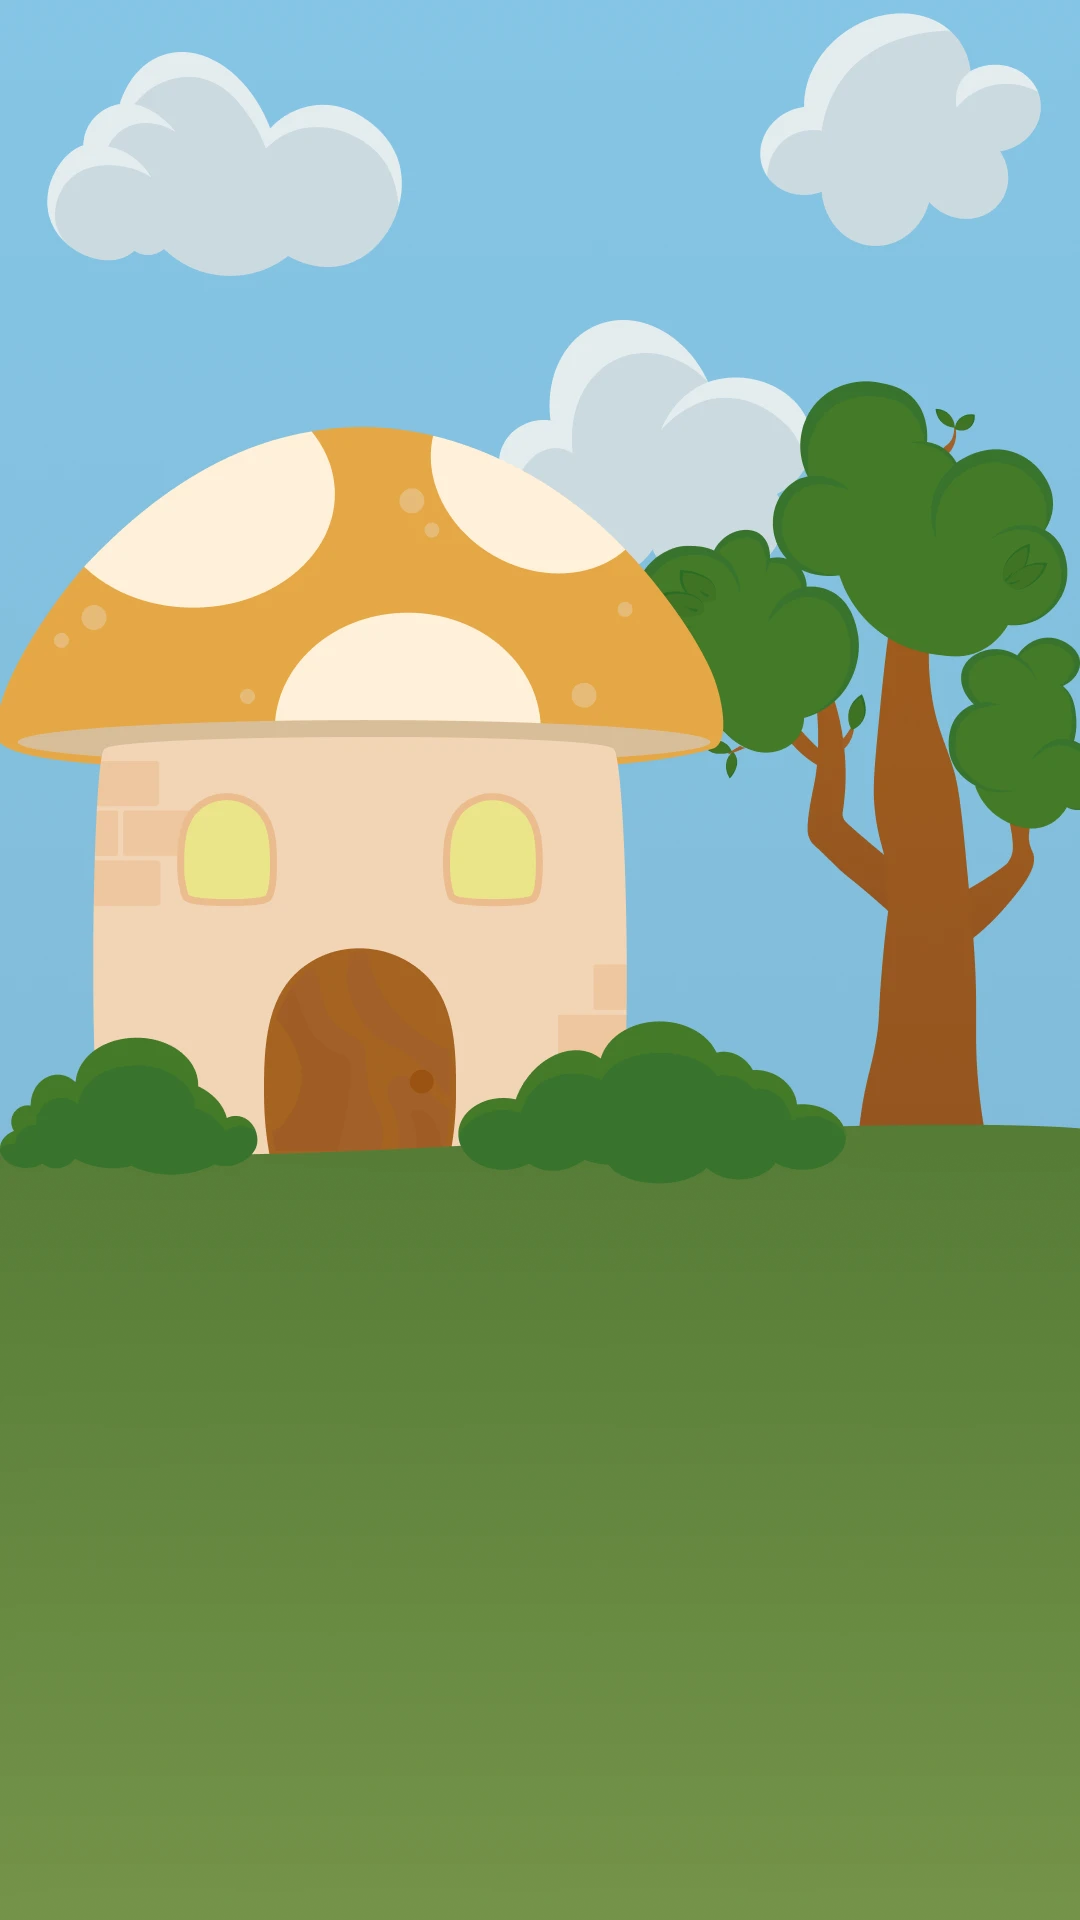
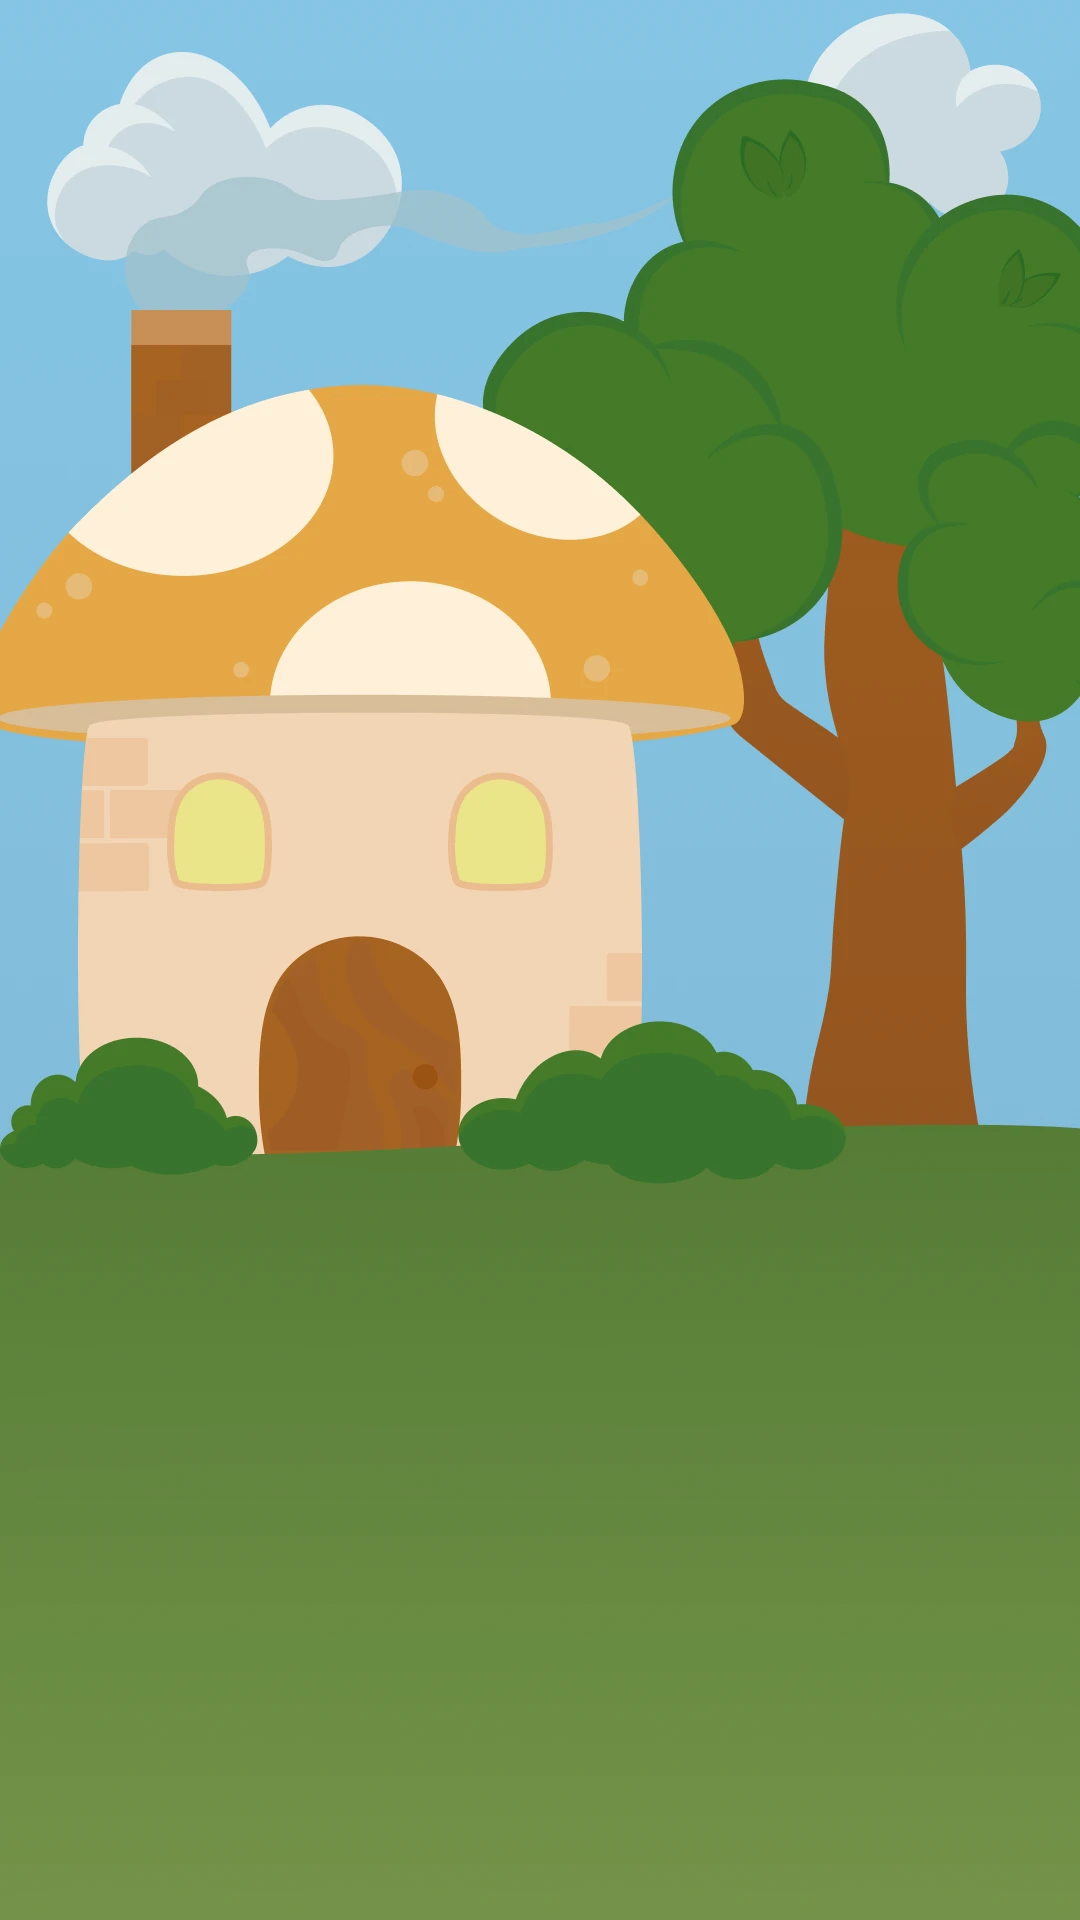
feat:FM-502 FM-559 FM-567 Phase 3 Monster Implementation Background changes for phase 3 and Evolution star count changes

diff --git a/src/gameStateService/gameStateService.ts b/src/gameStateService/gameStateService.ts
@@ -54,7 +54,7 @@ export class GameStateService extends PubSub {
         selectedLevelNumber: number
 
     };
-    public feedbackTexts: null |  {
+    public feedbackTexts: null | {
         amazing: string,
         fantastic: string,
         great: string
@@ -177,28 +177,28 @@ export class GameStateService extends PubSub {
             //Return determined game types and what level it will first appear.
             return gameTypes;
         }
-         return {}
+        return {}
     }
 
     private checkClearedLevels(levelNumber: number) {
-       const clearedLevels = GameScore.getAllGameLevelInfo();
-       let hasCleardLevel = false;
-       /*We don't need the whole object in Cleard level data, we just need to check if the
-        levelNumber is in the list as it means it that level has been cleared.
-       */
-       clearedLevels.every((cleardLevels: {
-           levelName: string,
-           levelNumber: number,
-           score: number,
-           starCount: number
-       }) => {
-        if (cleardLevels.levelNumber === levelNumber) {
-            hasCleardLevel = true;
-            return false; //Return false to break every loop.
-        }
-           // Return true or else, `every()` will stop.
-        return true;
-       });
+        const clearedLevels = GameScore.getAllGameLevelInfo();
+        let hasCleardLevel = false;
+        /*We don't need the whole object in Cleard level data, we just need to check if the
+         levelNumber is in the list as it means it that level has been cleared.
+        */
+        clearedLevels.every((cleardLevels: {
+            levelName: string,
+            levelNumber: number,
+            score: number,
+            starCount: number
+        }) => {
+            if (cleardLevels.levelNumber === levelNumber) {
+                hasCleardLevel = true;
+                return false; //Return false to break every loop.
+            }
+            // Return true or else, `every()` will stop.
+            return true;
+        });
 
         return hasCleardLevel;
     }
@@ -207,7 +207,7 @@ export class GameStateService extends PubSub {
      * Flag that the current tutorial has been cleared.
     */
     public setClearedTutorial(gameTypeName: string) {
-        if(this.gameTypesFirstInstanceList[gameTypeName]) {
+        if (this.gameTypesFirstInstanceList[gameTypeName]) {
             this.gameTypesFirstInstanceList[gameTypeName].isCleared = true;
         }
     }
@@ -222,11 +222,11 @@ export class GameStateService extends PubSub {
             : "";
 
         let shouldHaveTutorial = false;
-        let isTutorialCleared : boolean = false;
-        const selectedLevelNumber:string | number = this.gamePlayData.selectedLevelNumber;
+        let isTutorialCleared: boolean = false;
+        const selectedLevelNumber: string | number = this.gamePlayData.selectedLevelNumber;
         const levelNumber = typeof selectedLevelNumber === 'string' ? parseInt(selectedLevelNumber) : selectedLevelNumber;
         //Very small array to iterate.
-        Object.values(this.gameTypesFirstInstanceList).forEach((listedLevelNumber: { levelNumber: number, isCleared: boolean}) => {
+        Object.values(this.gameTypesFirstInstanceList).forEach((listedLevelNumber: { levelNumber: number, isCleared: boolean }) => {
             if (listedLevelNumber?.levelNumber === levelNumber) {
                 isTutorialCleared = listedLevelNumber?.isCleared;
                 shouldHaveTutorial = true;
@@ -250,8 +250,8 @@ export class GameStateService extends PubSub {
         };
     }
 
-    levelEndSceneData({levelEndData, data}) {
-        this.levelEndData = {...levelEndData};
+    levelEndSceneData({ levelEndData, data }) {
+        this.levelEndData = { ...levelEndData };
         this.data = data;
         this.isLastLevel = levelEndData.currentLevel === data.levels[data.levels.length - 1].levelMeta.levelNumber;
     }
@@ -273,12 +273,14 @@ export class GameStateService extends PubSub {
     public checkMonsterPhaseUpdation(): number {
         const totalStarCount = this.getTotalStars();
         switch (true) {
-          case totalStarCount >= 38:
-            return 2; // Phase 4
-          case totalStarCount >= 8:
-            return 1; // Phase 2
-          default:
-            return 0; // Phase 1 (default)
+            case totalStarCount >= 38:
+                return 3; // Phase 4
+            case totalStarCount >= 23:
+                return 2; // Phase 3
+            case totalStarCount >= 8:
+                return 1; // Phase 2
+            default:
+                return 0; // Phase 1 (default)
         }
     }
 

diff --git a/src/constants/index.ts b/src/constants/index.ts
@@ -154,9 +154,10 @@ export const WINTER_BG_GROUP_IMGS = {
 
 //Rive Animation
 export const MONSTER_PHASES = [
-  './assets/rive/eggmonsterclone.riv',
-  './assets/rive/hatchedmonsterclone.riv',
-  './assets/rive/adultmonsterclone.riv',
+  './assets/rive/eggmonster.riv',
+  './assets/rive/hatchedmonster.riv',
+  './assets/rive/youngmonster.riv',
+  './assets/rive/adultmonster.riv',
 ];
 
 //Start screen Monster
@@ -186,5 +187,6 @@ export const SPECIAL_LEVELS = [5, 13, 20, 30, 42];
 export const PHASES_BG ={
   0: './assets/images/phaseBackground_1.webp',
   1: './assets/images/phaseBackground_2.webp',
-  2: './assets/images/phaseBackground_3.webp'
+  2: './assets/images/phaseBackground_3.webp',
+  3: './assets/images/phaseBackground_4.webp',
 };

diff --git a/src/sw-src.js b/src/sw-src.js
@@ -51,9 +51,10 @@ async function preloadAdditionalAssets() {
   const assetsToCache = [
     "/assets/rive/ftm_monster_evolve1-2.riv",
     "/assets/rive/ftm_monster_evolve2-4.riv",
-    "/assets/rive/eggmonsterclone.riv",
-    "/assets/rive/hatchedmonsterclone.riv",
-    "/assets/rive/adultmonsterclone.riv",
+    "/assets/rive/eggmonster.riv",
+    "/assets/rive/hatchedmonster.riv",
+    "/assets/rive/youngmonster.riv",
+    "/assets/rive/adultmonster.riv",
     "/assets/rive/rive.wasm",
   ];
   const cache = await caches.open("dynamic-cache");

diff --git a/src/scenes/gameplay-scene/gameplay-scene.ts b/src/scenes/gameplay-scene/gameplay-scene.ts
@@ -104,6 +104,7 @@ export class GameplayScene {
   private animationDelays = [
     { backToIdle: 350, isChewing: 0, isHappy: 1700, isSpit: 1500, isSad: 3000 }, // Phase 1
     { backToIdle: 350, isChewing: 0, isHappy: 1700, isSpit: 1000, isSad: 2500 }, // Phase 2
+    { backToIdle: 350, isChewing: 0, isHappy: 1700, isSpit: 1300, isSad: 2600 }, // Phase 3
     { backToIdle: 350, isChewing: 0, isHappy: 1700, isSpit: 100, isSad: 2500 }  // Phase 4
   ];
 

diff --git a/public/index.html b/public/index.html
@@ -45,7 +45,7 @@
 
 <body>
   <div class="game-scene">
-    <h1 id="version-info-id">v1.0.43</h1>
+    <h1 id="version-info-id">v1.0.44</h1>
     <button id="toggle-btn" class="off">Dev</button>
     <!--Keep the server url in href-->
     <a href="https://devcuriousreader.wpcomstaging.com/FeedTheMonsterJS2.2/" target="_blank" id="pwa_app"></a>
